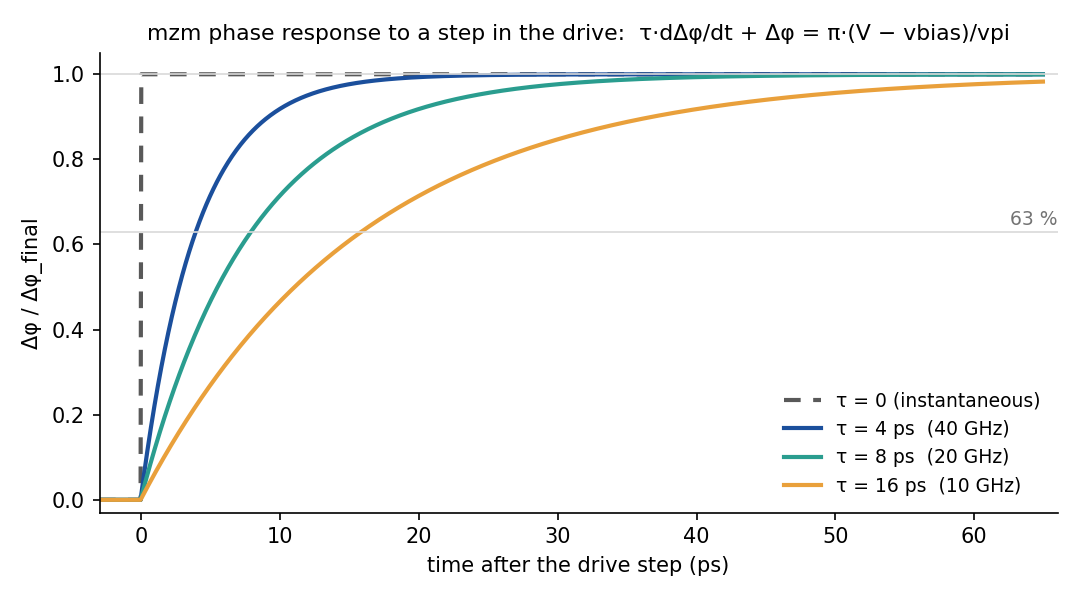
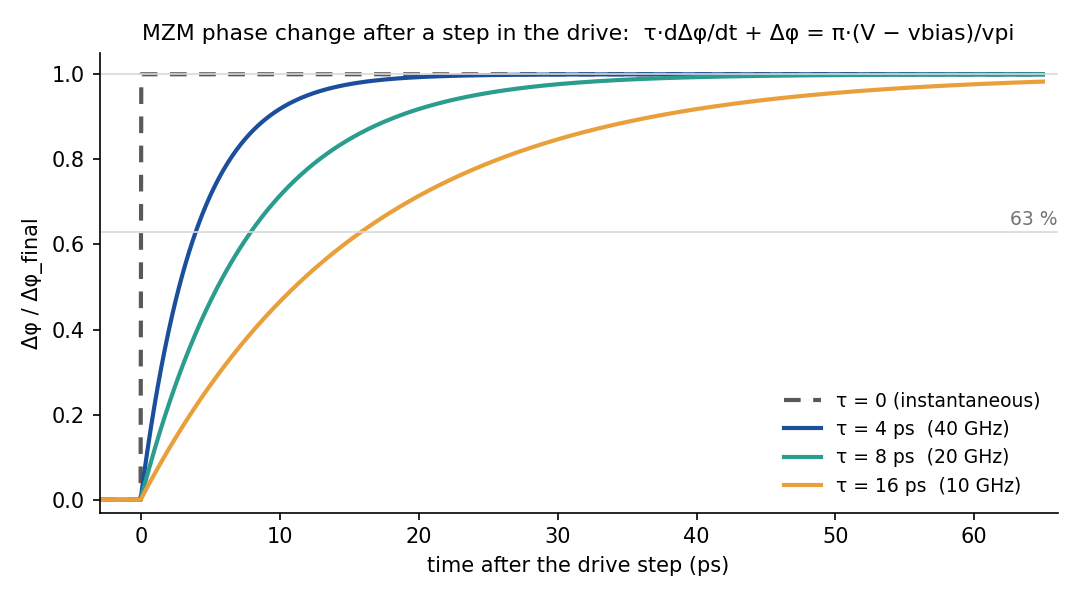
Docs: retitle the modulator figure as the MZM phase change

Changed region(s): [[0.1222, 0.03, 0.9472, 0.09]]

diff --git a/docs/figures/make_modulator_response.py b/docs/figures/make_modulator_response.py
@@ -1,4 +1,4 @@
-"""Draw docs/figures/modulator_response.png: the mzm phase response to a step in the drive,
+"""Draw docs/figures/modulator_response.png: the MZM phase change after a step in the drive,
 for several response times tau.
 
 Every curve is computed by SPIPE's own modulator model (MZM._drive, the code path a simulation
@@ -65,7 +65,7 @@ ax.set_ylim(-0.03, 1.05)
 for side in ('top', 'right'):
     ax.spines[side].set_visible(False)
 ax.legend(frameon=False, fontsize=9, loc='lower right')
-ax.set_title('mzm phase response to a step in the drive:  τ·dΔφ/dt + Δφ = π·(V − vbias)/vpi',
+ax.set_title('MZM phase change after a step in the drive:  τ·dΔφ/dt + Δφ = π·(V − vbias)/vpi',
              fontsize=10.5)
 fig.tight_layout()
 out = os.path.join(HERE, 'modulator_response.png')

diff --git a/docs/scope.md b/docs/scope.md
@@ -38,7 +38,7 @@ modulator's response.
 The response is applied to `V − vbias` before anything else, and the loss modulation
 (`dacoeff*`) follows the same filtered drive, as carrier density does in a real device.
 
-![mzm phase response to a drive step for several time constants](figures/modulator_response.png)
+![MZM phase change after a drive step, for several time constants](figures/modulator_response.png)
 
 ### Choosing `τ`
 
